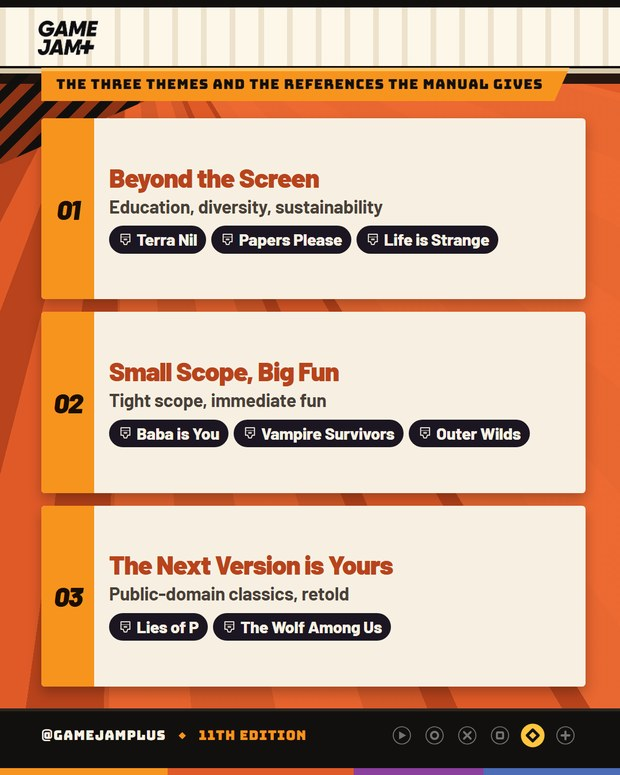
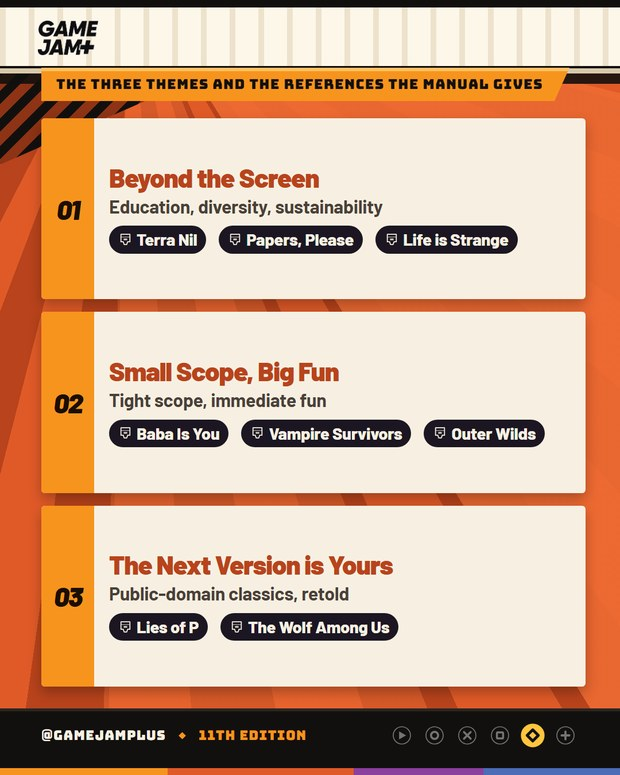
E03: dois titulos de jogo errados, e pilulas vizinhas nao colam mais
O dono apontou duas coisas no slide de temas. As duas que ele citou estao
CERTAS e ficam como estao:
- "Lies of P" nao esta cortado, e o titulo completo (Neowiz, 2023), releitura
  de Pinoquio, que e justamente o que o tema "The Next Version is Yours" pede
- "The Wolf Among Us" e UM jogo (Telltale, 2013), nao "The Wolf" + "Among Us"

Mas a reclamacao de fundo era boa, e a varredura achou dois erros reais que
tinham passado, os dois conferidos na Steam:
- "Papers Please" -> "Papers, Please" (o titulo tem virgula)
- "Baba is You"  -> "Baba Is You"    (a Hempuli usa Is maiusculo)

"Life is Strange" fica: a Square Enix escreve com "is" minusculo mesmo.
Terra Nil, Vampire Survivors e Outer Wilds estavam corretos.

Causa de duas pilulas parecerem uma: o gap era 9px em 1080, quase nada no
tamanho de feed. Foi pra 20/22px, e agora cada jogo le como item proprio.

Changed region(s): [[0.3371, 0.2787, 0.8274, 0.3406], [0.3677, 0.5265, 0.8887, 0.5884], [0.3371, 0.7742, 0.6435, 0.8361]]

diff --git a/index.html b/index.html
@@ -259,7 +259,7 @@ dialog img{width:min(92vw,620px);max-height:92dvh;object-fit:contain;border-radi
 <article class="c" data-cat="01-conteudos-gj" data-lang="PT" data-busca="e03 - como funcionam os temas gj+" id="c202">
   <header><div><span class="tagcat">GJ+</span><span class="taglang PT">PT</span><h2>E03 - Como funcionam os temas</h2></div>
   <div class="nav"><button aria-label="Anterior" data-d="-1">←</button><button aria-label="Próximo" data-d="1">→</button><span class="cont">6</span></div></header>
-  <div class="strip"><figure><img src="img/01-conteudos-gj-pt-e03-como-funcionam-os-temas/slide_01.jpg?v=4" alt="E03 - Como funcionam os temas 1" width="620" height="775" loading="lazy" decoding="async"><figcaption>01</figcaption></figure><figure><img src="img/01-conteudos-gj-pt-e03-como-funcionam-os-temas/slide_02.jpg?v=4" alt="E03 - Como funcionam os temas 2" width="620" height="775" loading="lazy" decoding="async"><figcaption>02</figcaption></figure><figure><img src="img/01-conteudos-gj-pt-e03-como-funcionam-os-temas/slide_03.jpg?v=4" alt="E03 - Como funcionam os temas 3" width="620" height="775" loading="lazy" decoding="async"><figcaption>03</figcaption></figure><figure><img src="img/01-conteudos-gj-pt-e03-como-funcionam-os-temas/slide_04.jpg?v=4" alt="E03 - Como funcionam os temas 4" width="620" height="775" loading="lazy" decoding="async"><figcaption>04</figcaption></figure><figure><img src="img/01-conteudos-gj-pt-e03-como-funcionam-os-temas/slide_05.jpg?v=4" alt="E03 - Como funcionam os temas 5" width="620" height="775" loading="lazy" decoding="async"><figcaption>05</figcaption></figure><figure><img src="img/01-conteudos-gj-pt-e03-como-funcionam-os-temas/slide_06.jpg?v=4" alt="E03 - Como funcionam os temas 6" width="620" height="775" loading="lazy" decoding="async"><figcaption>06</figcaption></figure></div></article>
+  <div class="strip"><figure><img src="img/01-conteudos-gj-pt-e03-como-funcionam-os-temas/slide_01.jpg?v=5" alt="E03 - Como funcionam os temas 1" width="620" height="775" loading="lazy" decoding="async"><figcaption>01</figcaption></figure><figure><img src="img/01-conteudos-gj-pt-e03-como-funcionam-os-temas/slide_02.jpg?v=5" alt="E03 - Como funcionam os temas 2" width="620" height="775" loading="lazy" decoding="async"><figcaption>02</figcaption></figure><figure><img src="img/01-conteudos-gj-pt-e03-como-funcionam-os-temas/slide_03.jpg?v=5" alt="E03 - Como funcionam os temas 3" width="620" height="775" loading="lazy" decoding="async"><figcaption>03</figcaption></figure><figure><img src="img/01-conteudos-gj-pt-e03-como-funcionam-os-temas/slide_04.jpg?v=5" alt="E03 - Como funcionam os temas 4" width="620" height="775" loading="lazy" decoding="async"><figcaption>04</figcaption></figure><figure><img src="img/01-conteudos-gj-pt-e03-como-funcionam-os-temas/slide_05.jpg?v=5" alt="E03 - Como funcionam os temas 5" width="620" height="775" loading="lazy" decoding="async"><figcaption>05</figcaption></figure><figure><img src="img/01-conteudos-gj-pt-e03-como-funcionam-os-temas/slide_06.jpg?v=5" alt="E03 - Como funcionam os temas 6" width="620" height="775" loading="lazy" decoding="async"><figcaption>06</figcaption></figure></div></article>
 <article class="c" data-cat="01-conteudos-gj" data-lang="PT" data-busca="c02 - wildlife e crazygames gj+" id="c203">
   <header><div><span class="tagcat">GJ+</span><span class="taglang PT">PT</span><h2>C02 - Wildlife e CrazyGames</h2></div>
   <div class="nav"><button aria-label="Anterior" data-d="-1">←</button><button aria-label="Próximo" data-d="1">→</button><span class="cont">8</span></div></header>
@@ -427,7 +427,7 @@ dialog img{width:min(92vw,620px);max-height:92dvh;object-fit:contain;border-radi
 <article class="c" data-cat="01-conteudos-gj" data-lang="EN" data-busca="e03 - how the themes work gj+" id="c206">
   <header><div><span class="tagcat">GJ+</span><span class="taglang EN">EN</span><h2>E03 - How the themes work</h2></div>
   <div class="nav"><button aria-label="Anterior" data-d="-1">←</button><button aria-label="Próximo" data-d="1">→</button><span class="cont">6</span></div></header>
-  <div class="strip"><figure><img src="img/01-conteudos-gj-en-e03-how-the-themes-work/slide_01.jpg?v=4" alt="E03 - How the themes work 1" width="620" height="775" loading="lazy" decoding="async"><figcaption>01</figcaption></figure><figure><img src="img/01-conteudos-gj-en-e03-how-the-themes-work/slide_02.jpg?v=4" alt="E03 - How the themes work 2" width="620" height="775" loading="lazy" decoding="async"><figcaption>02</figcaption></figure><figure><img src="img/01-conteudos-gj-en-e03-how-the-themes-work/slide_03.jpg?v=4" alt="E03 - How the themes work 3" width="620" height="775" loading="lazy" decoding="async"><figcaption>03</figcaption></figure><figure><img src="img/01-conteudos-gj-en-e03-how-the-themes-work/slide_04.jpg?v=4" alt="E03 - How the themes work 4" width="620" height="775" loading="lazy" decoding="async"><figcaption>04</figcaption></figure><figure><img src="img/01-conteudos-gj-en-e03-how-the-themes-work/slide_05.jpg?v=4" alt="E03 - How the themes work 5" width="620" height="775" loading="lazy" decoding="async"><figcaption>05</figcaption></figure><figure><img src="img/01-conteudos-gj-en-e03-how-the-themes-work/slide_06.jpg?v=4" alt="E03 - How the themes work 6" width="620" height="775" loading="lazy" decoding="async"><figcaption>06</figcaption></figure></div></article>
+  <div class="strip"><figure><img src="img/01-conteudos-gj-en-e03-how-the-themes-work/slide_01.jpg?v=5" alt="E03 - How the themes work 1" width="620" height="775" loading="lazy" decoding="async"><figcaption>01</figcaption></figure><figure><img src="img/01-conteudos-gj-en-e03-how-the-themes-work/slide_02.jpg?v=5" alt="E03 - How the themes work 2" width="620" height="775" loading="lazy" decoding="async"><figcaption>02</figcaption></figure><figure><img src="img/01-conteudos-gj-en-e03-how-the-themes-work/slide_03.jpg?v=5" alt="E03 - How the themes work 3" width="620" height="775" loading="lazy" decoding="async"><figcaption>03</figcaption></figure><figure><img src="img/01-conteudos-gj-en-e03-how-the-themes-work/slide_04.jpg?v=5" alt="E03 - How the themes work 4" width="620" height="775" loading="lazy" decoding="async"><figcaption>04</figcaption></figure><figure><img src="img/01-conteudos-gj-en-e03-how-the-themes-work/slide_05.jpg?v=5" alt="E03 - How the themes work 5" width="620" height="775" loading="lazy" decoding="async"><figcaption>05</figcaption></figure><figure><img src="img/01-conteudos-gj-en-e03-how-the-themes-work/slide_06.jpg?v=5" alt="E03 - How the themes work 6" width="620" height="775" loading="lazy" decoding="async"><figcaption>06</figcaption></figure></div></article>
 <article class="c" data-cat="01-conteudos-gj" data-lang="EN" data-busca="c02 - wildlife and crazygames gj+" id="c207">
   <header><div><span class="tagcat">GJ+</span><span class="taglang EN">EN</span><h2>C02 - Wildlife and CrazyGames</h2></div>
   <div class="nav"><button aria-label="Anterior" data-d="-1">←</button><button aria-label="Próximo" data-d="1">→</button><span class="cont">8</span></div></header>
